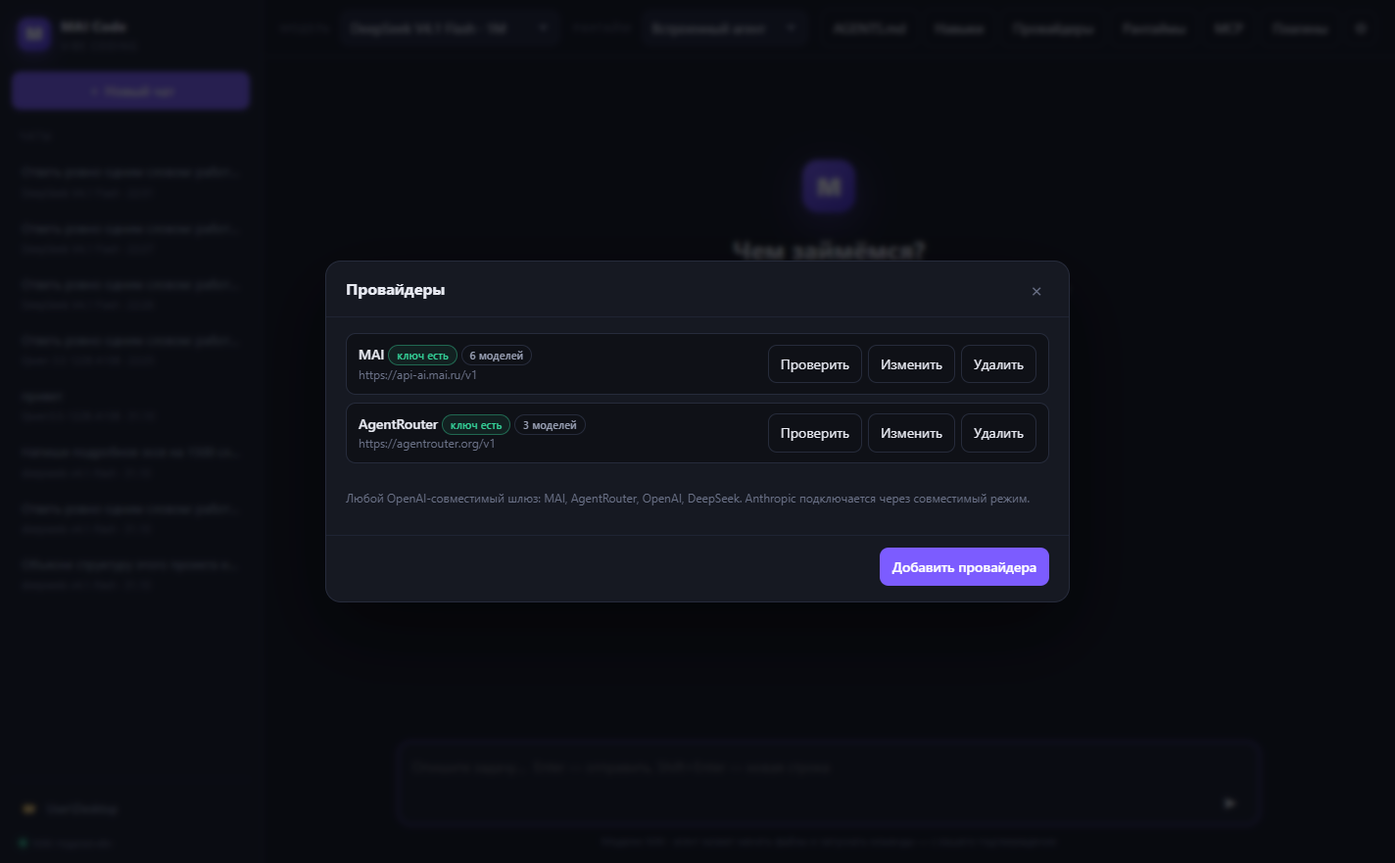
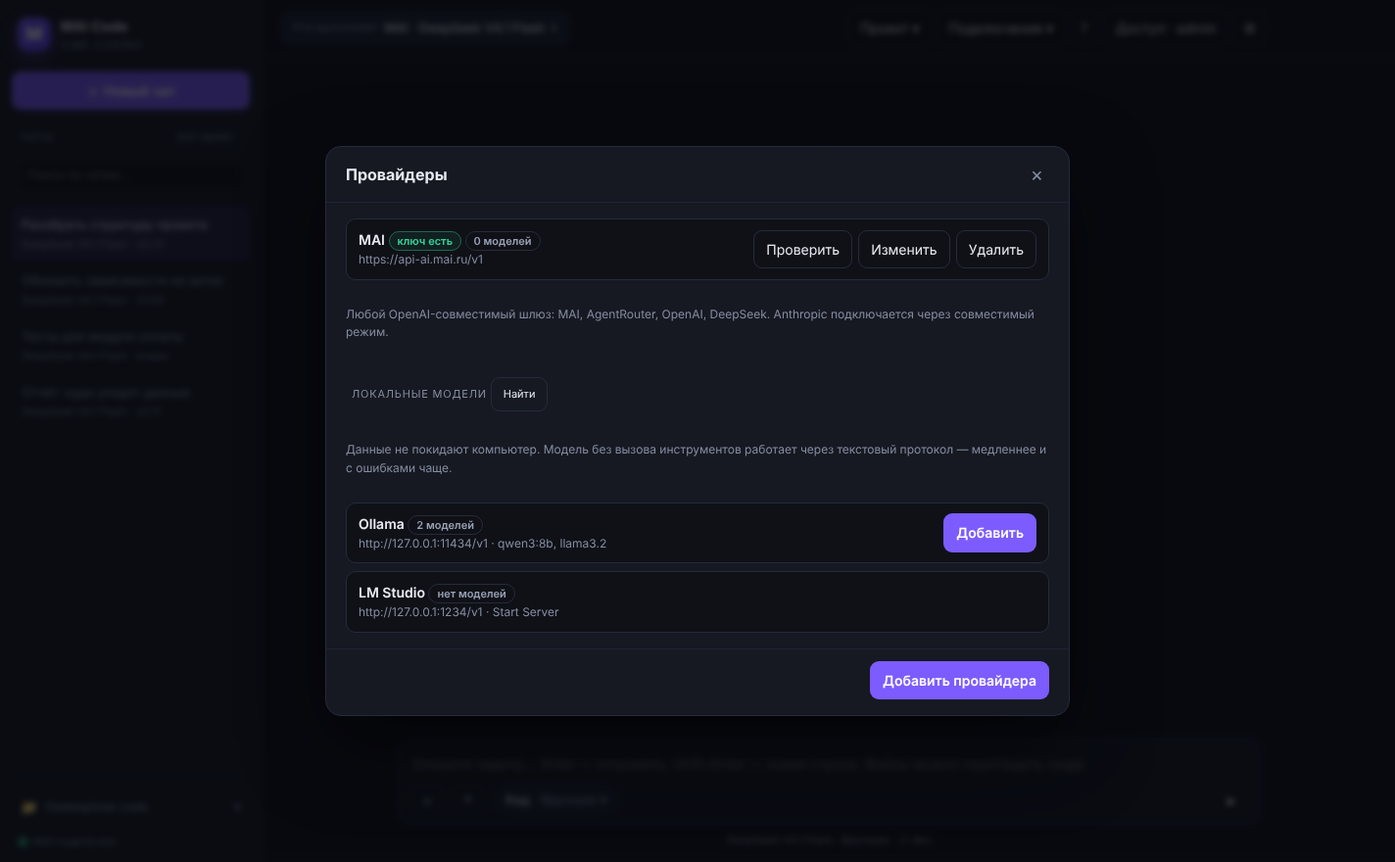
Документация под новый интерфейс (N9), скрытие [hidden] везде (ADR 0105)
- README и USER-GUIDE: раздел «Где что в окне», пути к панелям через новые
  меню «Проект», «Подключения», чип «Кто выполняет», вкладки настроек.
- docs/*: пути обновлены (PROVIDERS, MEMORY, PRESETS, BOARDS, DEPLOYMENT,
  SANDBOXES, OBSERVABILITY, ARCHITECTURE, README).
- Скриншоты screenshot.png и providers.png сняты test-ui (MAI_UI_SHOT).
- Fixed: [hidden] перебивался display — баннер прерванной работы был пустой
  жёлтой полосой; test-ui [60a].

Claude-Session: https://claude.ai/code/session_01SpGxidC6nM2Hy6xH1Q29h4

diff --git a/renderer/styles.css b/renderer/styles.css
@@ -1,3 +1,7 @@
+/* Атрибут hidden скрывает всегда: display из правил ниже его не перебивает
+   (так «скрытый» баннер прерванной работы был пустой полосой под шапкой). */
+[hidden] { display: none !important; }
+
 :root {
   --bg: #0f1117;
   --bg-elev: #161922;

diff --git a/docs/USER-GUIDE.md b/docs/USER-GUIDE.md
@@ -4,6 +4,20 @@
 режимы разрешений, диалог с агентом, команды, контекст, откат, инструкции
 проекта, субагенты и хуки. Установка и ключи — в [README](../README.md#быстрый-старт).
 
+## Где что в окне
+
+- **Шапка.** «Кто выполняет ▾» — модель или внешний агент, провайдеры и ключи,
+  поиск локальных моделей. «Проект ▾» — доски, данные, инструкции (AGENTS.md),
+  память, навыки, Multica. «Подключения ▾» — коннекторы, MCP, пакеты и плагины,
+  рантаймы, Docker. «?» — документация, «Доступ» — роль и вход, ⚙ — настройки
+  (точка на ⚙ — обновление высокого риска или место для очистки).
+- **Строка ввода.** «+» — файлы, микрофон, чип хода «Код · режим · глубина ▾»,
+  отправка. «/» — все команды по группам. Под строкой — модель, режим, ветка,
+  контекст и «Результаты».
+- **Боковая панель.** Новый чат, поиск, чаты (у строки: ✎ переименовать, ⑂ копия,
+  ⤓ скачать, ✕ удалить). Внизу 📁 — текущий проект: сменить папку, проекты,
+  новый проект, доверие к папкам.
+
 ## 1. Первый запуск в папке
 
 При самом первом запуске MAI Code предложит **выбрать роль**: разработчик,
@@ -14,7 +28,7 @@
 обычный пакет: выключить или удалить его можно в `/packages`. Сменить роль —
 `/onboarding`. Шаг можно пропустить.
 
-1. Выберите папку проекта: кнопка с папкой внизу боковой панели.
+1. Выберите папку проекта: кнопка 📁 внизу боковой панели → «Сменить папку…».
 2. Приложение спросит **«Доверять этой папке?»** и покажет, что в ней нашлось:
    плагины, MCP-серверы, `AGENTS.md`, память, навыки.
    - **Доверяю** — загрузить всё это. Выбирайте для своих папок и проверенных
@@ -23,8 +37,9 @@
      хуки, пакеты, свои команды и типы субагентов проекта не загружаются, режим «Без
      вопросов» не действует. Рекомендуется для чужого кода — если в папке есть
      плагины или MCP, этот вариант подсвечен.
-3. Решение действует и для вложенных папок. Изменить или забыть — «Настройки» →
-   «Доверие к папкам». Проекты, созданные пунктом «＋ Новый проект» (меню кнопки 📁 внизу боковой панели) (в отдельной папке), доверены сразу.
+3. Решение действует и для вложенных папок. Изменить или забыть — 📁 внизу боковой панели →
+   «Доверие к папкам…» (или ⚙ → «Безопасность»). Проекты, созданные пунктом
+   «＋ Новый проект в отдельной папке» того же меню, доверены сразу.
 
 У папки в боковой панели метка: «ограниченно» или «не доверена».
 
@@ -279,14 +294,14 @@
   изменили вы, пока агент работал, он перечитает его.
 - Читает страницы (`web_fetch`) и ищет в интернете (`web_search`) — с вашего
   разрешения; «Да, и не спрашивать» запоминает сайт (`web_fetch(docs.python.org)`).
-  Поисковик — «Настройки» → «Поиск в интернете»: DuckDuckGo без ключа, свой
+  Поисковик — «Настройки» → «Агент и браузер» → «Поиск в интернете»: DuckDuckGo без ключа, свой
   SearXNG или Brave Search с ключом. Адреса вашей локальной сети агенту
   недоступны, пока вы это не разрешите там же.
 - Действует на сайтах в **браузере агента** — отдельном окне «Браузер агента —
   MAI»: открывает страницы, нажимает кнопки и ссылки, заполняет формы, делает
   снимок экрана (`browser_*`). Разрешение спрашивается по сайту; «Да, и не
   спрашивать» запоминает весь домен (`browser_*(example.com)`). Списки «Сайты
-  без вопросов» и «Сайты под запретом» — «Настройки» → «Браузер агента», там же
+  без вопросов» и «Сайты под запретом» — «Настройки» → «Агент и браузер» → «Браузер агента», там же
   браузер выключается. **Пароли, коды из SMS и данные карт агент не вводит** —
   попросит вас ввести их в окне браузера; вход на сайт сохраняется для следующих
   задач. **Оплату и покупки** агент без вас не делает: такой клик спрашивается
@@ -379,7 +394,7 @@ argument-hint: <путь>
 
 ### Ревизор
 
-«Настройки» → «Ревизор»: вторая модель проверяет ответ агента и, если нужно,
+«Настройки» → «Основное» → «Ревизор»: вторая модель проверяет ответ агента и, если нужно,
 возвращает его на доработку (не больше заданного числа раундов). Если агент
 менял файлы, ревизор сам их читает — ничего не меняя. В «Плане» он оценивает
 план, а не требует правок; в «Задаче» — документы, а не код.
@@ -436,7 +451,7 @@ OpenAI. Если у модели в списке провайдера стоит
   другой подход. Откат файлов в копии — только для её собственных правок.
 - **Перенос**: «⤓» у строки чата (или `/export`) → «Файл чата MAI» сохраняет историю целиком;
   `/import` открывает такой файл (разрешения «на этот чат» не переносятся).
-- **Срок хранения** — «Настройки» → «Хранить чаты, дней»: при запуске
+- **Срок хранения** — «Настройки» → «Основное» → «Хранить чаты, дней»: при запуске
   удаляются чаты, которые не менялись дольше срока. 0 — хранить всегда.
 
 Откат возвращает правки, сделанные `write_file` и `edit_file`, в том числе
@@ -484,7 +499,7 @@ deploy/
 `.cursor/rules/*.mdc`, агент читает и их — кроме файлов, которые просто
 ссылаются на `AGENTS.md` или повторяют его. Правила Cursor без `alwaysApply`
 агент видит списком и открывает, когда задача их касается. Выключить —
-«Настройки» → «Инструкции других агентов».
+«Настройки» → «Основное» → «Инструкции других агентов».
 
 **«Запомнить?»** После работы, в которой агент что-то менял, над полем ввода
 может появиться «💡 Запомнить: «…»?» — урок, который пригодится в следующих
@@ -802,7 +817,7 @@ run eval`: 20 задач (10 по коду, 10 с документами и да
 
 | Что видно | Почему и что делать |
 |---|---|
-| Агент не видит `AGENTS.md`, плагины или MCP проекта | папка не доверена — «Настройки» → «Доверие к папкам» |
+| Агент не видит `AGENTS.md`, плагины или MCP проекта | папка не доверена — «Настройки» → «Безопасность» → «Доверие к папкам» |
 | «OpenCode не умеет соблюдать текущий режим» | переключите рантайм в docker-режим, задайте `permissionArgs` или режим «Без вопросов» |
 | Ключ провайдера пропал после переноса настроек | ключи зашифрованы для этой учётной записи — введите заново |
 | «Проект занят: чат агента уже меняет файлы» | в папке уже идёт пишущий прогон (чат, самокоррекция, рантайм) — дождитесь или остановите |

diff --git a/docs/PROVIDERS.md b/docs/PROVIDERS.md
@@ -71,7 +71,7 @@
   `/v1/responses` (OpenAI Responses API). Агент определяет это по первой ошибке
   шлюза, повторяет шаг через `lib/responses.js` и держит выбор до конца сессии.
   Моделям GPT-5+ `temperature` не отправляется — шлюз отвечает 400. См. ADR 0026.
-- Панель «Провайдеры»: проверка (`GET /models`), добавление, редактирование, удаление.
+- Окно «Провайдеры» («Кто выполняет ▾» → «Провайдеры и ключи…»): проверка (`GET /models`), добавление, редактирование, удаление.
   Ключ наружу не отдаётся — только признак «ключ есть» и первые символы.
 - Anthropic подключается через OpenAI-совместимый эндпоинт; Copilot потребует отдельной
   авторизации и в этот слой не укладывается.
@@ -127,7 +127,7 @@
 
 ## Локальные модели
 
-Окно «Провайдеры» само ищет серверы на этом компьютере: Ollama (11434), LM Studio
+Окно «Провайдеры» («Кто выполняет ▾» → «Найти локальные модели») само ищет серверы на этом компьютере: Ollama (11434), LM Studio
 (1234), colibri или vLLM (8000), llama.cpp (8080), Jan (1337) — запрос
 `/v1/models`. «Добавить» создаёт провайдера с моделями из ответа; ключ не нужен.
 Модели без вызова инструментов работают через текстовый протокол (ADR 0078,

diff --git a/docs/BACKLOG-NEXT.md b/docs/BACKLOG-NEXT.md
@@ -111,7 +111,7 @@
 | 23.11.2026 | M7 | N6 | ADR 0102 | сам MAI отстаёт: Electron 38 → 45, openai 6 → 7, 10 уязвимостей среднего риска в сборке |
 | 23.11.2026 | M7 | N7 | ADR 0103 | — |
 | 23.11.2026 | M7 | обновление зависимостей | ADR 0104 | уязвимость высокого риска в самом Electron 38; `npm audit fix --force` откатил бы electron-builder |
-| 24.11.2026 | M7 | N9 (шаги 1–4) | ADR 0105 | `display` в стилях перебивал `hidden` у всплывающих окон; экспорт оказался внутри `init` |
+| 24.11.2026 | M7 | N9 (шаги 1–5), документация под новый интерфейс | ADR 0105 | `display` в стилях перебивал `hidden` у всплывающих окон и баннера; экспорт оказался внутри `init`; шапка в узком окне уходила под кнопки окна Windows; Ctrl+K убран — команды только через «/» |
 | 22.11.2026 | M6 | F5 | ADR 0064 | ревизор слал `temperature` моделям gpt-5 |
 | 21.11.2026 | M6 | CC11.1, CC11.3, CC11.6 | ADR 0059 | встроенный `/review` перекрыл бы свои команды `review` — сделан заменяемым |
 | 21.11.2026 | M6 | CC13.1, CC7.11 | ADR 0058 | DuckDuckGo из CI отвечает капчей — `web_search` теперь говорит об этом прямо |

diff --git a/docs/DEPLOYMENT.md b/docs/DEPLOYMENT.md
@@ -108,7 +108,7 @@ Realm `mai-code` импортируется из `realm-mai-code.json`:
 затем Credentials и Role mapping. Подробности и команды `kcadm.sh`:
 `infra/keycloak/README.md`.
 
-В MAI Code откройте «Доступ», укажите issuer:
+В MAI Code откройте «Доступ» (кнопка в шапке или ⚙ → «Доступ»), укажите issuer:
 
 ```
 http://localhost:8080/realms/mai-code
@@ -215,7 +215,7 @@ npm.cmd run multica:sync
   по импорту в OpenScion;
 - глобальные навыки, `AGENTS.md` и профили моделей остаются общими.
 
-Панель «Docker» запускает Docker-контейнер с папкой проекта в `/workspace`:
+Окно «Docker» («Подключения ▾» → «Docker») запускает Docker-контейнер с папкой проекта в `/workspace`:
 read-only корневая ФС, сброс capabilities, лимиты CPU/RAM, публикация портов.
 Подробности: `docs/SANDBOXES.md`.
 

diff --git a/docs/adr/0105-novyy-interfeys-glavnogo-okna.md b/docs/adr/0105-novyy-interfeys-glavnogo-okna.md
@@ -61,3 +61,9 @@
   не только смену папки.
 - По ходу: правила `display` в стилях перебивали атрибут `hidden` у окна чипа —
   оно оставалось на экране; тест проверял только атрибут. Теперь — `display`.
+- При обновлении документации: то же перебивание `hidden` было у баннера
+  прерванной работы (`.run-banner{display:flex}`, ADR 0051) — пустая жёлтая
+  полоса под шапкой. Правило `[hidden]{display:none!important}` в начале
+  стилей закрывает весь класс таких ошибок; `test-ui` [60a] проверяет, что ни
+  один элемент с `hidden` не виден. Скриншоты README (`docs/screenshot.png`,
+  `docs/providers.png`) снимает `test-ui` при `MAI_UI_SHOT`.

diff --git a/docs/ROADMAP.md b/docs/ROADMAP.md
@@ -49,6 +49,9 @@ M1–M3 и начало M4 вошли в 0.2.0 (см. [CHANGELOG](../CHANGELOG.m
 - [x] Пресеты `dsh`, `hermes`, `jev` в настройках рантаймов.
 - [x] Keycloak на Postgres и пользователь `letun82@mail.ru`.
 - [x] Правило ADR/changelog: `AGENTS.md`, `CHANGELOG.md`, `docs/adr/`.
+- [x] Интерфейс главного окна вокруг сценариев (N9, ADR 0105): чип хода у строки
+      ввода, «Кто выполняет», меню «Проект» и «Подключения», вкладки настроек,
+      команды «/» по группам.
 
 ## Ближайшее (P1)
 

diff --git a/CHANGELOG.md b/CHANGELOG.md
@@ -246,6 +246,10 @@
 
 ### Fixed
 
+- Интерфейс (ADR 0105): атрибут `hidden` перебивался правилами `display` —
+  «скрытый» баннер прерванной работы (ADR 0051) оставался пустой жёлтой полосой
+  под шапкой. Теперь `[hidden]` скрывает всегда.
+
 - Процессы (ADR 0096): на macOS/Linux «Стоп» стадии деплоя и рантайма
   останавливал только родителя — потомки (`npm` → `node`) оставались жить.
 

diff --git a/docs/BOARDS.md b/docs/BOARDS.md
@@ -1,6 +1,6 @@
 # Доски
 
-Четыре доски и хранилище открываются **в отдельных окнах**. Кнопка «Доски» в главном
+Четыре доски и хранилище открываются **в отдельных окнах**. «Проект ▾» → «Доски» в главном
 окне открывает «Доставку», «Данные» — «Хранилище». Верхние вкладки окна доски
 переключают остальные доски (каждая в своём окне).
 

diff --git a/docs/ARCHITECTURE.md b/docs/ARCHITECTURE.md
@@ -353,7 +353,7 @@ ADR 0090. `calibrator.js` — `buildContext`, `parseReport`, `diffReports`,
 
 ### Проект в отдельной папке
 
-ADR 0091. Подписи «＋ Новый проект» и панели «Docker» в `index.html`/`app.js`;
+ADR 0091. Подписи «＋ Новый проект» (меню 📁) и окна «Docker» («Подключения ▾») в `index.html`/`app.js`;
 `workspace.js` по-прежнему создаёт проекты в `<данные>/sandboxes/` (совместимость).
 
 ### Голосовой ввод
